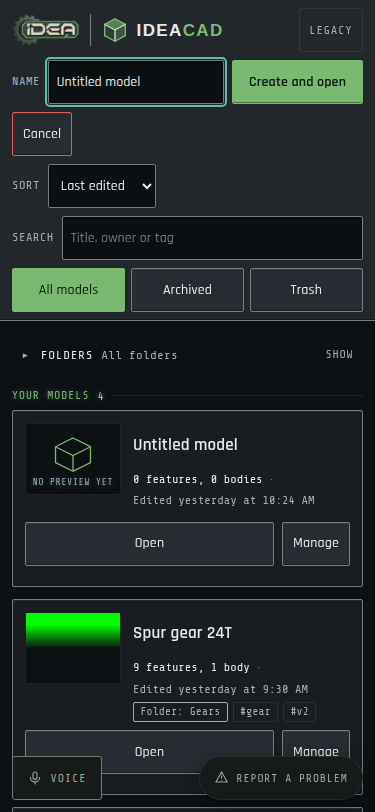
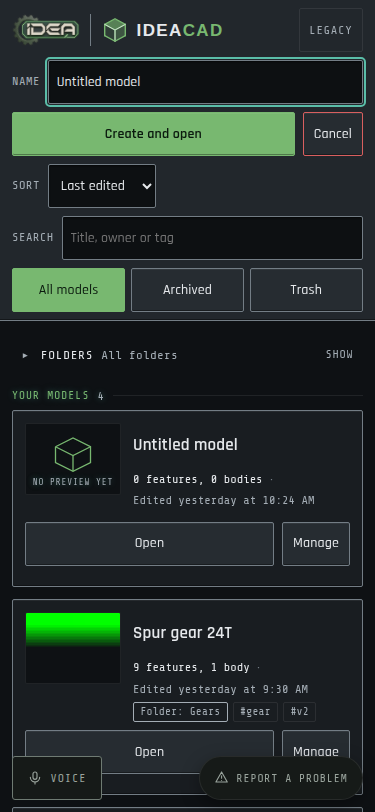
Naming a new IdeaCAD model on a phone keeps Create and open and Cancel on one row
Claude-Session: https://claude.ai/code/session_01M9Vi1RqxEHTZMAMzUsU4id

Changed region(s): [[0.0293, 0.0616, 0.9973, 0.2155]]

diff --git a/src/lib/ideacad/solid/launch/LaunchPage.svelte b/src/lib/ideacad/solid/launch/LaunchPage.svelte
@@ -260,6 +260,8 @@
 		.ic-logo .cube { width: 30px; height: 30px; }
 		.links .wide { display: none; }
 		.new .accept { flex: 1 1 auto; }
+		/* Naming on a phone: the name on its own row, then Create and open with Cancel beside it rather than under it. */
+		.new-form label { flex-basis: 100%; }
 		.sort { justify-self: start; }
 		.views { justify-self: stretch; }
 		.views button { flex: 1 1 0; }
